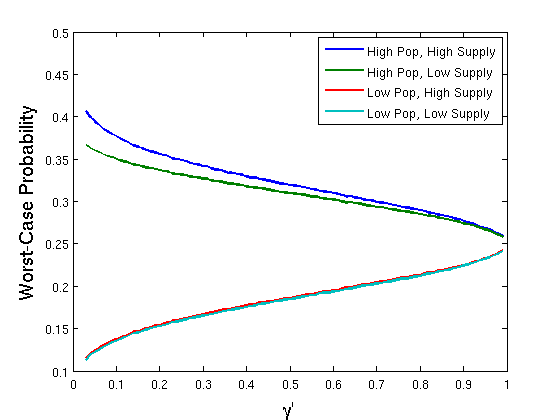
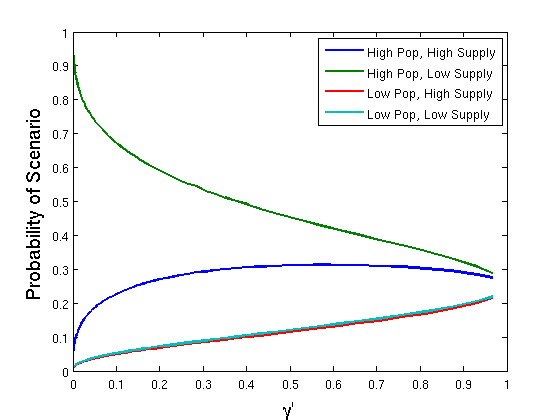
Updated plot of worst-case probability
(1) Updated .fig and .png files
(2) Changed P_1 from 10 to 5
(3) Changed number of observations to 1

diff --git a/love_lro.tex b/love_lro.tex
@@ -490,11 +490,11 @@ The model has a total of $P = 41$ time periods, representing years 2010--2050.
 % We use $P_1 = 10$ time periods for the first stage, and four second-stage scenarios are constructed from high (WISP) and low (TAZ) population estimates along with high and low estimates for the amount of water available for use.
 For each time period, the network has 62 nodes representing demand for potable and nonpotable (reclaimed) water, pumps, water treatment plants, and the available water supply from the Colorado River.
 The network in each time period has 102 arcs, representing the pipe network carrying the water between the nodes physically and connecting the network to the five reservoirs that connect the time stages in the model.
-We use $P_1 = 10$ time periods for the first stage.
+We use $P_1 = 5$ time periods for the first stage.
 Uncertainty in the second stage takes the form of uncertain population (thus, demand for water) and supply of water.
 There are a total of 4 scenarios considered in this test instance: (i) high population, high supply, (ii) high population, low supply, (iii) low population, high supply, and (iv) low population, low supply.
 Specific numbers for the population and water availability are given in Table \ref{tab:scenario_description}.
-Each scenario is assumed to have five observations.
+Each scenario is assumed to have one observation.
 The high population scenarios are more costly as the system needs to meet demand or pay for unmet demand.
 The low population scenarios, on the other hand, are not as costly. 
 % The supply variability seems to have a nominal effect.
@@ -503,8 +503,9 @@ The low population scenarios, on the other hand, are not as costly.
 Figure \ref{fig:worst_case} shows how the worst-case distribution changes with $\gamma'$.
 When $\gamma'$ is close to $1$, we use the maximum likelihood distribution, which has equal $\tfrac{1}{4}$ probabilities on each of the four scenarios.
 As $\gamma'$ is decreased, the ambiguity set increases, and the worst-case distribution used by LRLP-2 changes.
-It gives higher than $\tfrac{1}{4}$ probability to the two high-population scenarios and lower than $\tfrac{1}{4}$ probability to the two low-population scenarios, making the solution more robust to costly scenarios.
-Note that the scenarios fall into two similar pairs because the cost of each scenario depends strongly on the projected demand but only weakly on the projected supply of Colorado River water.
+For values of $\gamma'$ larger than about $0.15$, the worst case distribution assigns probability larger than $\tfrac{1}{4}$ to each of the high population scenarios, and probability smaller than $\tfrac{1}{4}$ to the low population scenarios.
+As $\gamma'$ becomes smaller, the worst-case distribution continues moving towards the high population-low supply scenario, the costliest of the four.
+We can see that as $\gamma'$ becomes zero, the worst-case distribution will focus only on this most expensive scenario.
 A closer look at the optimal solutions reveals that as $\gamma'$ is decreased, or as robustness is increased, the solution uses more and more reclaimed water (treated wastewater that is reused for nonpotable purposes such as irrigation) in an effort to meet demands in a least-costly way.
 
 %\subsection{Value of Data}
@@ -612,9 +613,9 @@ This work has also been partially supported by the National Science Foundation t
 
 \begin{figure}[!ht]
 	\centering
-	\includegraphics[width=.5\textwidth]{images/worst_case_probability}
+	\includegraphics[width=.7\textwidth]{images/worst_case_probability}
 	\caption{
-		Worst-case distribution for the likelihood robust water allocation problem.
+		The probability of each of the four scenarios of the worst-case distribution for different values of the likelihood parameter $\gamma'$.
 	}
 	\label{fig:worst_case}
 \end{figure}
